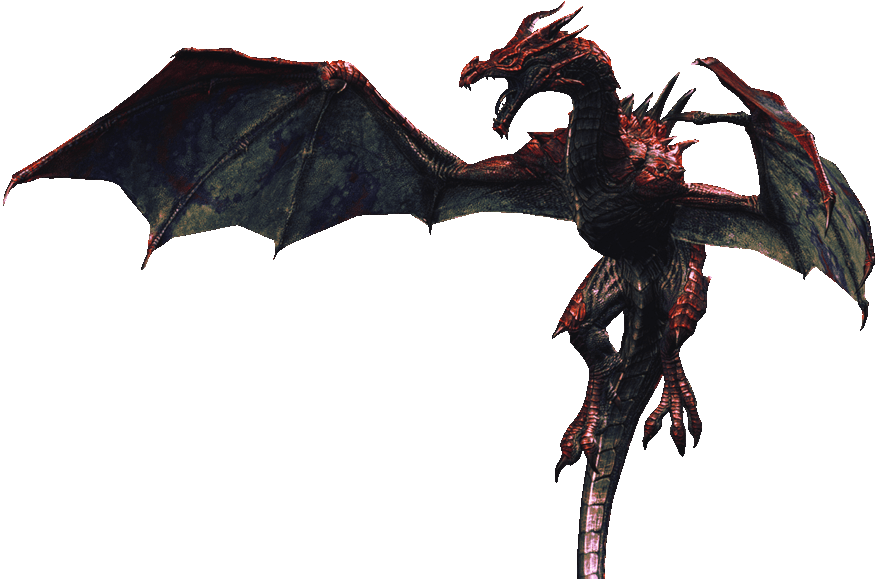
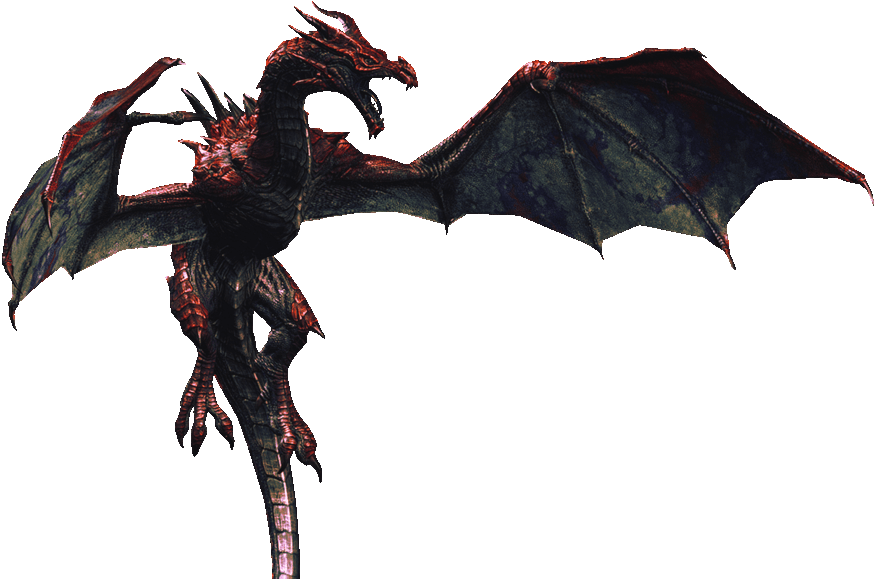
fix :dragon: positioning on the fly

diff --git a/web/src/app/screen/login/login.component.ts b/web/src/app/screen/login/login.component.ts
@@ -22,52 +22,49 @@ export class LoginComponent implements OnInit {
 
   ngOnInit(): void { }
 
-  Login(name: string | any) {
-    this.sound.preLoaded.action[1].play();
+  private isValid(name): boolean {
     this.messages = [];
 
     if (name.length > 0) {
-      if (!name.match(/^[a-zA-Z `'"´]+$/)) {
+      if (!name.match(/^[a-zA-Z `'"´çÇáÁàÀâÂéÉêÊíÍóÒúÚîÎôÔûÛüÜùÙãÃõÕ]+$/)) {
         this.messages.push('Utilize apenas letas.');
         if (name.length > 6) {
           this.messages.push('Invente um nome, não uma senha.');
         }
       }
-      if (name.length < 4) {
-        this.messages.push('Utilize um nome, não seu apelido.');
-      }
-      if (name.length >= 13) {
-        this.messages.push('Utilize um nome mais curto.');
-      }
-      if (name.length === 17) {
-        this.messages = ['Nenhuma referência será permitida. Talkey?!'];
-      }
-      if (name.length === 42) {
-        this.messages = ['É apenas um nome, não a resposta para o significado da Vida, do Universo e tudo o mais.'];
-      }
-      if (name.length > 42) {
-        this.messages.push('Calma! É apenas um nome, não um salmo..');
-      }
-      if (name.match(/(.)\1{2,}/)) {
-        this.messages.push('Seu nome nome não deve possuir mais de 2 caracteres repetidos consecutivamente.');
-      }
-      if (!name.match(/^[A-Z]+/)) {
-        this.messages.push('Seu nome deve ter ao menos a primeira letra maiúscula.');
+      for (const [condition, message] of [
+        [name.length  <  4      , 'Utilize um nome, não seu apelido.'],
+        [name.length  >= 13     , 'Utilize um nome mais curto.'],
+        [name.length === 17     , 'Nenhuma referência será permitida. Talkey?!'],
+        [name.length === 42     , 'É apenas um nome, não a resposta para o significado da Vida, do Universo e tudo o mais.'],
+        [name.length  >  42     , 'Calma! É apenas um nome, não um salmo..'],
+        [name.match(/(.)\1{2,}/), 'Seu nome nome não deve possuir mais de 2 caracteres repetidos consecutivamente.'],
+        [!name.match(/^[A-Z]+/) , 'Seu nome deve ter ao menos a primeira letra maiúscula.'],
+      ]) {
+        if (condition) {
+          this.messages.push(message);
+        }
       }
       if (!this.messages.length) {
         if (name === 'Khaleesi') {
           this.breed.motherOfDragons();
         }
         this.login.user = name;
-        this.sound.preLoaded.action[2].play();
-        this.route.navigate(['/dragon']);
+        return true;
       }
-    }
-    else {
+    } else {
       this.messages.push('Seu nome não pode ser vazio.');
     }
-
     return false;
+  }
+
+  Login(name: string | any) {
+    const login = this.isValid(name);
+    this.sound.preLoaded.action[[1, 2][Number(login)]].play();
+
+    if (login) {
+      this.route.navigate(['/dragon']);
+    }
   }
 
   Logout() {

diff --git a/web/src/app/screen/pannel/dragon/dragon.component.sass b/web/src/app/screen/pannel/dragon/dragon.component.sass
@@ -23,7 +23,7 @@
         background-image: url(/assets/image/dragon/dragon0.png)
         background-repeat: no-repeat
         background-position: top right
-        background-size: contain
+        background-size: cover
         -webkit-filter: drop-shadow(5px 5px 5px rgba(0, 0, 0, 1))
         filter: drop-shadow(5px 5px 5px rgba(0, 0, 0, 1))
         background-position: calc(100% - var(--mouseX) * 0.1%) top
@@ -96,10 +96,17 @@
 
 
 
-@media screen and ( min-width: 800px )
+@media screen and ( max-width: 800px )
     .inside-stage
         .dragon
             height: 100% !important
             background-size: calc(100% + var(--sizing)) !important
+            background-position-x: center !important
             z-index: 0
-            background-size: cover
+
+
+
+@media screen and ( max-width: 1000px )
+    .inside-stage
+        .dragon
+            background-position-x: top !important
